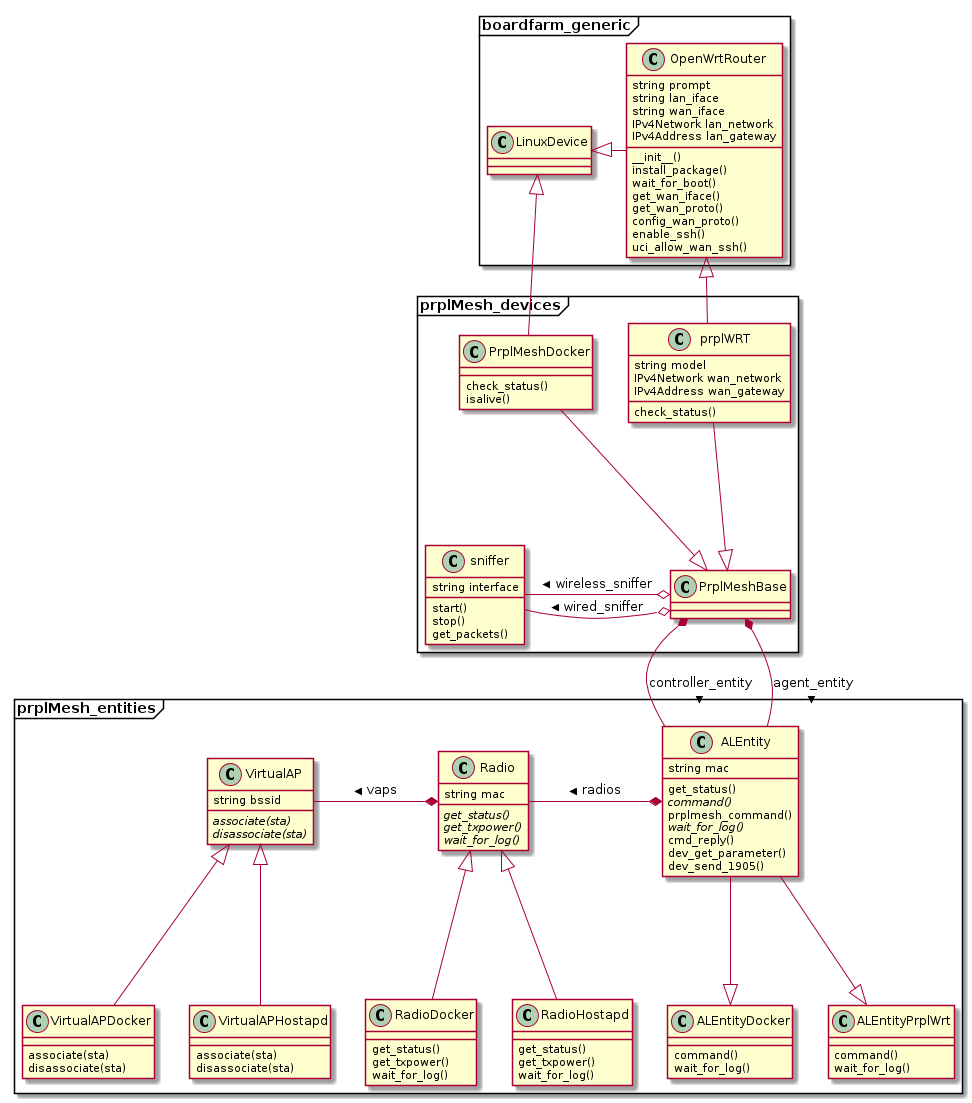
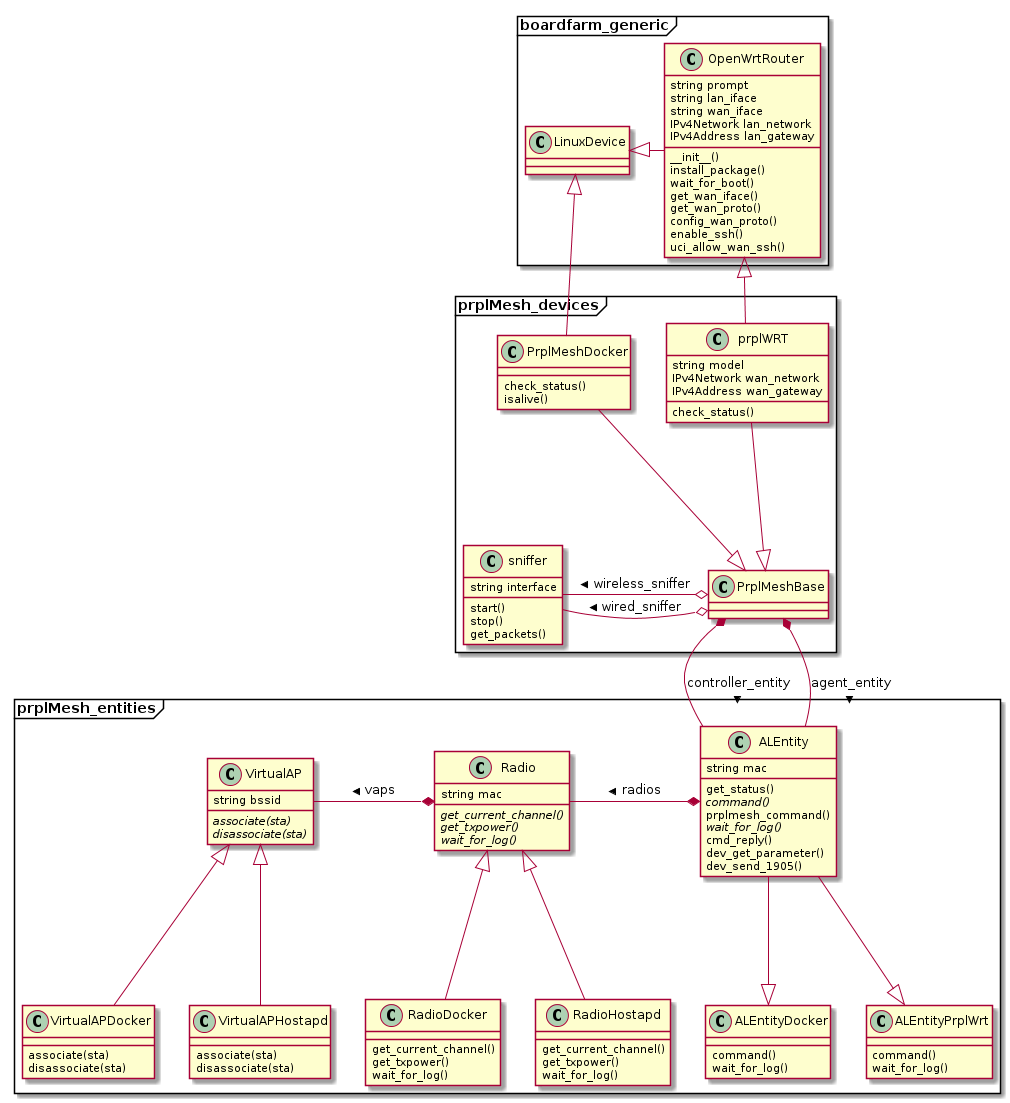
tests: environment.py: add Radio.get_current_channel()
Add an abstract function to the Radio class to get the current channel.
Add its implementation for Docker, which is based on the channel status
file.

diff --git a/tests/environment.py b/tests/environment.py
@@ -12,8 +12,10 @@ import platform
 import re
 import subprocess
 import time
+import yaml
 
 from capi import UCCSocket
+from collections import namedtuple
 from opts import opts, debug, err
 import sniffer
 
@@ -67,6 +69,9 @@ class ALEntity:
         raise NotImplementedError("wait_for_log is not implemented in abstract class ALEntity")
 
 
+ChannelInfo = namedtuple("ChannelInfo", "channel bandwidth center_channel")
+
+
 class Radio:
     '''Abstract representation of a radio on a MultiAP agent.
 
@@ -83,6 +88,17 @@ class Radio:
     def wait_for_log(self, regex: str, start_line: int, timeout: float) -> bool:
         '''Poll the radio's logfile until it contains "regex" or times out.'''
         raise NotImplementedError("wait_for_log is not implemented in abstract class Radio")
+
+    def get_current_channel(self) -> ChannelInfo:
+        '''Get the current channel information.
+
+        Returns
+        -------
+        ChannelInfo
+            3-tuple with the channel information: channel index, bandwidth as an integer, and
+            center channel for VHT.
+        '''
+        raise NotImplementedError("get_current_channel is not implemented in abstract class Radio")
 
 
 class Station:
@@ -269,6 +285,19 @@ class RadioDocker(Radio):
         # Inside the container, $USER is set to the username that was used for starting it.
         command = "echo \"{}\" > /tmp/$USER/beerocks/{}/EVENT".format(event, self.iface_name)
         self.agent.command('sh', '-c', command)
+
+    def read_tmp_file(self, filename: str) -> bytes:
+        '''Read the file given by `filename` from the radio's status directory'''
+        # The file is only available within the docker container so we need to use cat.
+        # Inside the container, $USER is set to the username that was used for starting it.
+        # We need to pass through shell to expand it.
+        path = "/tmp/$USER/beerocks/{}/{}".format(self.iface_name, filename)
+        return self.agent.command("sh", "-c", 'cat "{}"'.format(path))
+
+    def get_current_channel(self) -> ChannelInfo:
+        channel_info = yaml.safe_load(self.read_tmp_file("channel"))
+        return ChannelInfo(channel_info["channel"], channel_info["bw"],
+                           channel_info["center_channel"])
 
 
 class VirtualAPDocker(VirtualAP):

diff --git a/tests/README.md b/tests/README.md
@@ -26,6 +26,9 @@ The test environment prepares these before the tests are started.
 - `Radio` objects are accessed through the agents and have the following attributes:
     - `mac`:  The radio UID of this radio.
     - `vaps`: list of VAPs configured on this radio, see below.
+    - `get_current_channel`: read the current channel from the radio.
+       Returns a tuple (channel, bandwidth, center_channel).
+       Note that 80+80 bandwidth is not supported: bandwidth is reported as an integer, and 80+80 requires two center channels.
     - `wait_for_log(regex, start_line, timeout)`: wait for maximum `timeout` seconds for `regex` to appear in the log of the device on a line after `start_line`.
       This looks in the `beerocks_agent_wlanX.log` file, where wlanX corresponds to the radio.
       Don't use this function directly, use `self.wait_for_log` or `self.check_log` instead (see below).
